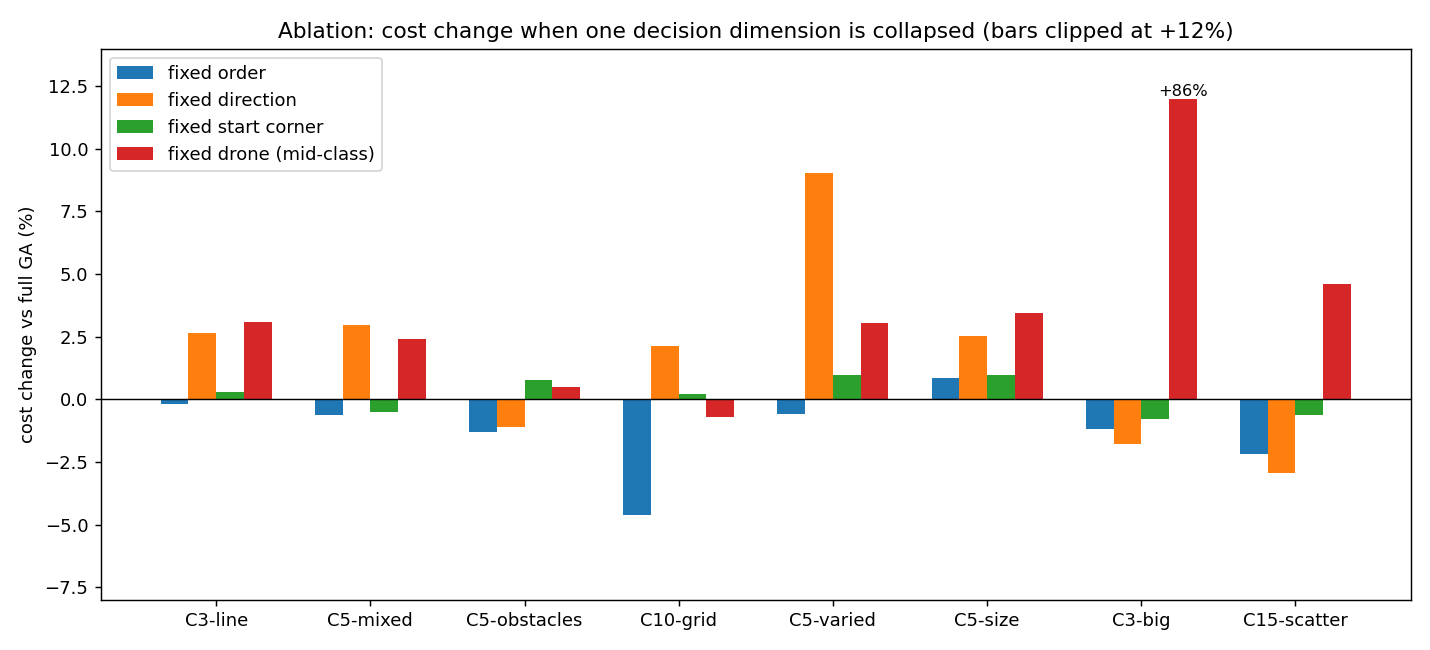
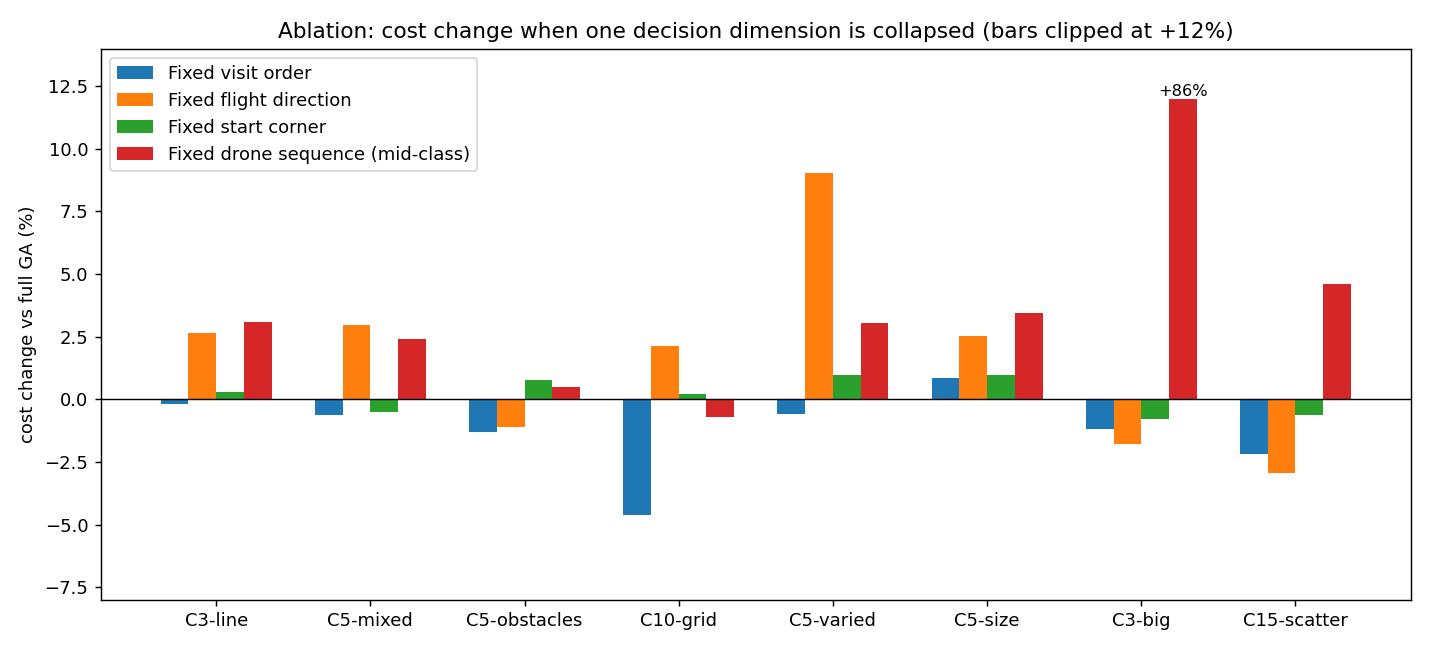
docx renderer sub/sup support, ablation labels renamed to paper vocabulary

Changed region(s): [[0.1231, 0.0923, 0.3385, 0.2769]]

diff --git a/scripts/make_paper_docx.py b/scripts/make_paper_docx.py
@@ -27,22 +27,33 @@ PAPER_DIR = ROOT / "experiments" / "paper"
 MD = PAPER_DIR / "paper.md"
 OUT = PAPER_DIR / (sys.argv[1] if len(sys.argv) > 1 else "multi_field_campaign_paper.docx")
 
-INLINE = re.compile(r"(\*\*.+?\*\*|\*[^*]+?\*)")
+INLINE = re.compile(r"(\*\*.+?\*\*|\*[^*]+?\*|<sub>.*?</sub>|<sup>.*?</sup>)")
 
 
-def add_runs(paragraph, text, base_size=None):
-    """Add text to a paragraph, honouring **bold** and *italic* spans."""
+def add_runs(paragraph, text, base_size=None, bold=False, italic=False):
+    """Add text to a paragraph, honouring **bold** / *italic* spans and
+    <sub>/<sup> subscript/superscript tags (tags may nest inside spans)."""
     for tok in INLINE.split(text):
         if not tok:
             continue
-        if tok.startswith("**") and tok.endswith("**"):
-            run = paragraph.add_run(tok[2:-2])
-            run.bold = True
-        elif tok.startswith("*") and tok.endswith("*") and len(tok) > 2:
-            run = paragraph.add_run(tok[1:-1])
-            run.italic = True
+        if tok.startswith("**") and tok.endswith("**") and len(tok) > 4:
+            add_runs(paragraph, tok[2:-2], base_size, bold=True, italic=italic)
+            continue
+        if tok.startswith("*") and tok.endswith("*") and len(tok) > 2 and not tok.startswith("**"):
+            add_runs(paragraph, tok[1:-1], base_size, bold=bold, italic=True)
+            continue
+        if tok.startswith("<sub>") and tok.endswith("</sub>"):
+            run = paragraph.add_run(tok[5:-6])
+            run.font.subscript = True
+        elif tok.startswith("<sup>") and tok.endswith("</sup>"):
+            run = paragraph.add_run(tok[5:-6])
+            run.font.superscript = True
         else:
             run = paragraph.add_run(tok)
+        if bold:
+            run.bold = True
+        if italic:
+            run.italic = True
         if base_size:
             run.font.size = Pt(base_size)
 

diff --git a/scripts/exp_analyze.py b/scripts/exp_analyze.py
@@ -95,14 +95,14 @@ DISPLAY = {
     "C10gridR": "C10-grid-R",
 }
 ABL_LABELS = {
-    "fixed_order": "fixed order",
-    "fixed_direction": "fixed direction",
-    "fixed_start": "fixed start corner",
-    "fixed_dir_start": "fixed direction + start",
-    "fixed_drones": "fixed drone (mid-class)",
-    "single_direction": "shared direction",
-    "single_start": "shared start corner",
-    "single_drones": "shared drone sequence",
+    "fixed_order": "Fixed visit order",
+    "fixed_direction": "Fixed flight direction",
+    "fixed_start": "Fixed start corner",
+    "fixed_dir_start": "Fixed flight direction + start corner",
+    "fixed_drones": "Fixed drone sequence (mid-class)",
+    "single_direction": "Shared flight direction",
+    "single_start": "Shared start corner",
+    "single_drones": "Shared drone sequence",
 }
 OP_LABELS = {"rk": "random keys"}
 

diff --git a/experiments/results_tables.md b/experiments/results_tables.md
@@ -20,7 +20,7 @@
 
 Each dimension frozen at a reasonable default. Positive Δ% = freezing hurts (the dimension matters).
 
-| Campaign | full | fixed order | fixed direction | fixed start corner | fixed drone (mid-class) |
+| Campaign | full | Fixed visit order | Fixed flight direction | Fixed start corner | Fixed drone sequence (mid-class) |
 |---|---|---|---|---|---|
 | C3line | 56.8 (base) | -0.2% ns | +2.7% *** | +0.3% ns | +3.1% *** |
 | C5mixed | 94.1 (base) | -0.6% ns | +3.0% *** | -0.5% ns | +2.4% ** |
@@ -35,7 +35,7 @@ Each dimension frozen at a reasonable default. Positive Δ% = freezing hurts (th
 
 Dimension still optimized but shared across fields. Positive Δ% = per-field variation matters.
 
-| Campaign | full | shared direction | shared start corner | shared drone sequence |
+| Campaign | full | Shared flight direction | Shared start corner | Shared drone sequence |
 |---|---|---|---|---|
 | C5size | 85.9 (base) | +1.9% *** | +0.4% ns | +1.3% ** |
 | C5holes | 119.0 (base) | -1.2% ns | -1.2% ns | +0.1% ns |
@@ -45,7 +45,7 @@ Dimension still optimized but shared across fields. Positive Δ% = per-field var
 
 Same parcels as the base campaigns, road side alternating; base rows (uniform south roads) shown for contrast. Probes the start-corner gene when road placement varies; fixed_dir_start freezes direction AND corner together (no 180-degree-rotation compensation channel).
 
-| Campaign | full | fixed start corner | fixed direction | fixed direction + start |
+| Campaign | full | Fixed start corner | Fixed flight direction | Fixed flight direction + start corner |
 |---|---|---|---|---|
 | C5mixed | 94.1 (base) | -0.5% ns | +3.0% *** | +4.2% *** |
 | C5mixedR | 95.0 (base) | -0.8% ns | +3.0% *** | +3.9% *** |
